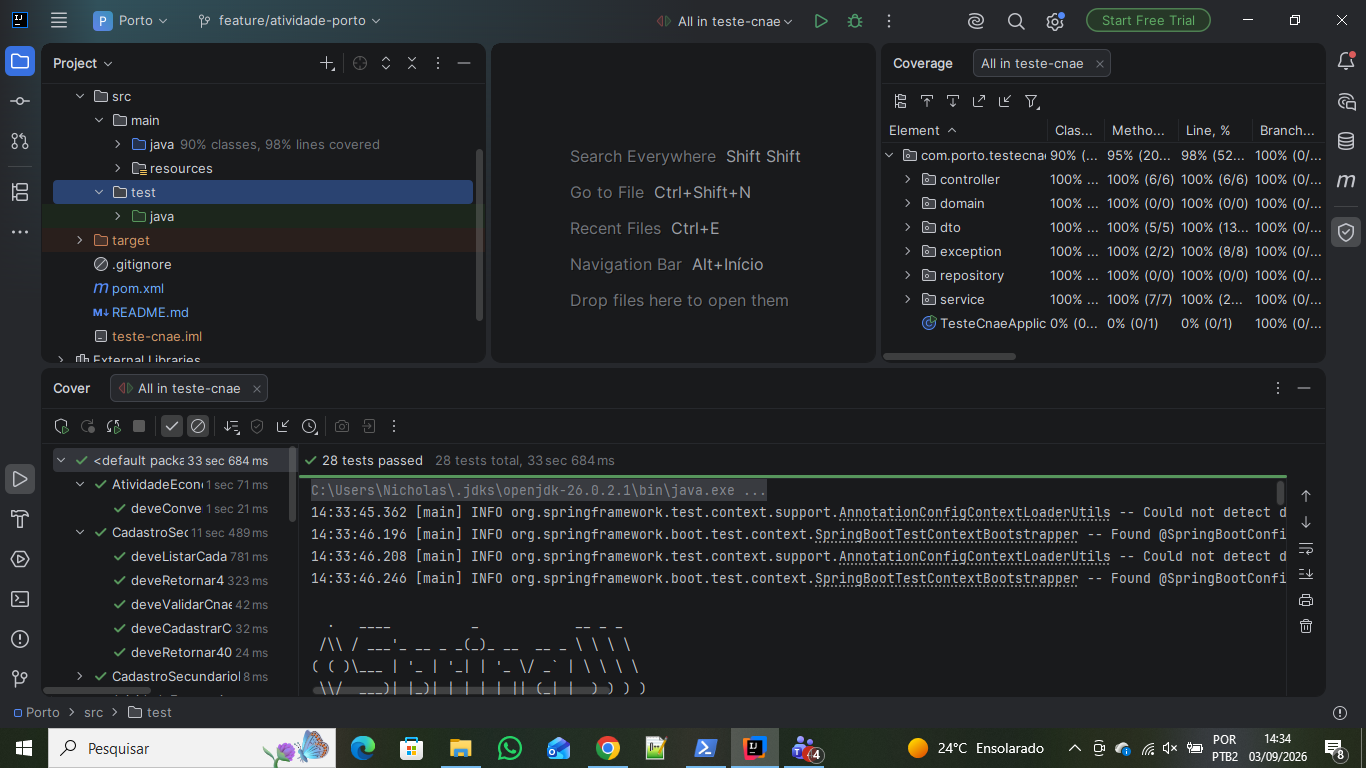
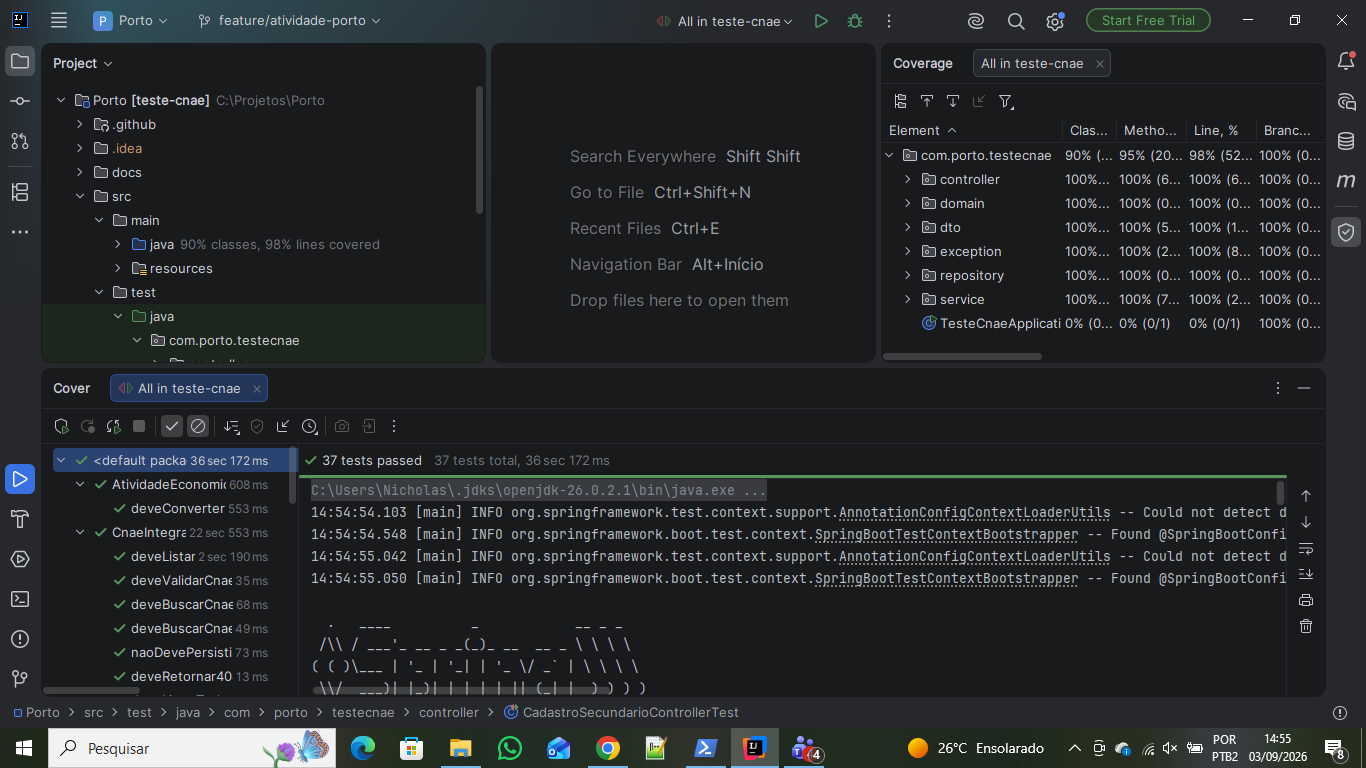
commit evidencias de funcionamento

diff --git a/src/test/java/com/porto/testecnae/integration/CnaeIntegrationTest.java b/src/test/java/com/porto/testecnae/integration/CnaeIntegrationTest.java
@@ -1,0 +1,215 @@
+package com.porto.testecnae.integration;
+
+import com.porto.testecnae.repository.CadastroSecundarioRepository;
+import org.junit.jupiter.api.BeforeEach;
+import org.junit.jupiter.api.Test;
+import org.springframework.beans.factory.annotation.Autowired;
+import org.springframework.boot.test.context.SpringBootTest;
+import org.springframework.boot.webmvc.test.autoconfigure.AutoConfigureMockMvc;
+import org.springframework.http.MediaType;
+import org.springframework.test.web.servlet.MockMvc;
+
+import static org.assertj.core.api.Assertions.assertThat;
+import static org.springframework.test.web.servlet.request.MockMvcRequestBuilders.get;
+import static org.springframework.test.web.servlet.request.MockMvcRequestBuilders.post;
+import static org.springframework.test.web.servlet.result.MockMvcResultMatchers.jsonPath;
+import static org.springframework.test.web.servlet.result.MockMvcResultMatchers.status;
+
+@SpringBootTest
+@AutoConfigureMockMvc
+class CnaeIntegrationTest {
+
+    @Autowired
+    private MockMvc mockMvc;
+
+    @Autowired
+    private CadastroSecundarioRepository cadastroSecundarioRepository;
+
+    @BeforeEach
+    void limparCadastros() {
+        cadastroSecundarioRepository.deleteAll();
+    }
+
+    @Test
+    void deveListarTodosOsCnaes() throws Exception {
+
+        mockMvc.perform(
+                        get("/api/cnaes")
+                )
+                .andExpect(status().isOk())
+                .andExpect(jsonPath("$").isArray());
+
+    }
+
+    @Test
+    void deveBuscarCnaesContendoTermoIgnorandoMaiusculasEMinusculas()
+            throws Exception {
+
+        mockMvc.perform(
+                        get("/api/cnaes/buscar")
+                                .param("termo", "PROGRAMAS")
+                )
+                .andExpect(status().isOk())
+                .andExpect(jsonPath("$").isArray())
+                .andExpect(jsonPath("$.length()").value(2))
+                .andExpect(jsonPath("$[0].codigo")
+                        .value("6201-5/01"))
+                .andExpect(jsonPath("$[1].codigo")
+                        .value("6202-3/00"));
+    }
+
+    @Test
+    void deveBuscarCnaeExistentePorCodigo() throws Exception {
+
+        mockMvc.perform(
+                        get("/api/cnaes/codigo")
+                                .param("codigo", "6201-5/01")
+                )
+                .andExpect(status().isOk())
+                .andExpect(jsonPath("$.codigo")
+                        .value("6201-5/01"))
+                .andExpect(jsonPath("$.descricao")
+                        .value(
+                                "Desenvolvimento de programas de computador sob encomenda"
+                        ));
+    }
+
+    @Test
+    void deveRetornar404ParaCnaeInexistente() throws Exception {
+
+        mockMvc.perform(
+                        get("/api/cnaes/codigo")
+                                .param("codigo", "9999-9/99")
+                )
+                .andExpect(status().isNotFound())
+                .andExpect(jsonPath("$.status").value(404))
+                .andExpect(jsonPath("$.title")
+                        .value("CNAE não encontrado"))
+                .andExpect(jsonPath("$.detail")
+                        .value(
+                                "CNAE não encontrado para o código: 9999-9/99"
+                        ));
+    }
+
+    @Test
+    void deveValidarCnaeExistente() throws Exception {
+
+        mockMvc.perform(
+                        get(
+                                "/api/cadastros-secundarios/validar-cnae"
+                        )
+                                .param(
+                                        "codigoCnae",
+                                        "6201-5/01"
+                                )
+                )
+                .andExpect(status().isOk())
+                .andExpect(jsonPath("$.codigo")
+                        .value("6201-5/01"));
+    }
+
+    @Test
+    void deveRetornar404AoValidarCnaeInexistente()
+            throws Exception {
+
+        mockMvc.perform(
+                        get(
+                                "/api/cadastros-secundarios/validar-cnae"
+                        )
+                                .param(
+                                        "codigoCnae",
+                                        "9999-9/99"
+                                )
+                )
+                .andExpect(status().isNotFound())
+                .andExpect(jsonPath("$.status").value(404));
+    }
+
+    @Test
+    void deveCadastrarQuandoCnaeExistir() throws Exception {
+
+        assertThat(cadastroSecundarioRepository.count())
+                .isZero();
+
+        mockMvc.perform(
+                        post("/api/cadastros-secundarios")
+                                .contentType(MediaType.APPLICATION_JSON)
+                                .content("""
+                                        {
+                                          "nomeFantasia": "Tech Porto",
+                                          "documento": "12345678000199",
+                                          "codigoCnae": "6201-5/01"
+                                        }
+                                        """)
+                )
+                .andExpect(status().isCreated())
+                .andExpect(jsonPath("$.nomeFantasia")
+                        .value("Tech Porto"))
+                .andExpect(jsonPath("$.documento")
+                        .value("12345678000199"))
+                .andExpect(jsonPath("$.cnae.codigo")
+                        .value("6201-5/01"));
+
+        assertThat(cadastroSecundarioRepository.count())
+                .isEqualTo(1);
+    }
+
+    @Test
+    void naoDevePersistirCadastroQuandoCnaeNaoExistir()
+            throws Exception {
+
+        long quantidadeAntes =
+                cadastroSecundarioRepository.count();
+
+        mockMvc.perform(
+                        post("/api/cadastros-secundarios")
+                                .contentType(MediaType.APPLICATION_JSON)
+                                .content("""
+                                        {
+                                          "nomeFantasia": "Empresa Invalida",
+                                          "documento": "99999999000199",
+                                          "codigoCnae": "9999-9/99"
+                                        }
+                                        """)
+                )
+                .andExpect(status().isNotFound())
+                .andExpect(jsonPath("$.status").value(404))
+                .andExpect(jsonPath("$.title")
+                        .value("CNAE não encontrado"));
+
+        long quantidadeDepois =
+                cadastroSecundarioRepository.count();
+
+        assertThat(quantidadeDepois)
+                .isEqualTo(quantidadeAntes);
+    }
+
+    @Test
+    void deveListarCadastroCriado() throws Exception {
+
+        mockMvc.perform(
+                        post("/api/cadastros-secundarios")
+                                .contentType(MediaType.APPLICATION_JSON)
+                                .content("""
+                                        {
+                                          "nomeFantasia": "Tech Porto",
+                                          "documento": "12345678000199",
+                                          "codigoCnae": "6201-5/01"
+                                        }
+                                        """)
+                )
+                .andExpect(status().isCreated());
+
+        mockMvc.perform(
+                        get("/api/cadastros-secundarios")
+                )
+                .andExpect(status().isOk())
+                .andExpect(jsonPath("$.length()").value(1))
+                .andExpect(jsonPath("$[0].nomeFantasia")
+                        .value("Tech Porto"))
+                .andExpect(jsonPath("$[0].documento")
+                        .value("12345678000199"))
+                .andExpect(jsonPath("$[0].cnae.codigo")
+                        .value("6201-5/01"));
+    }
+}
